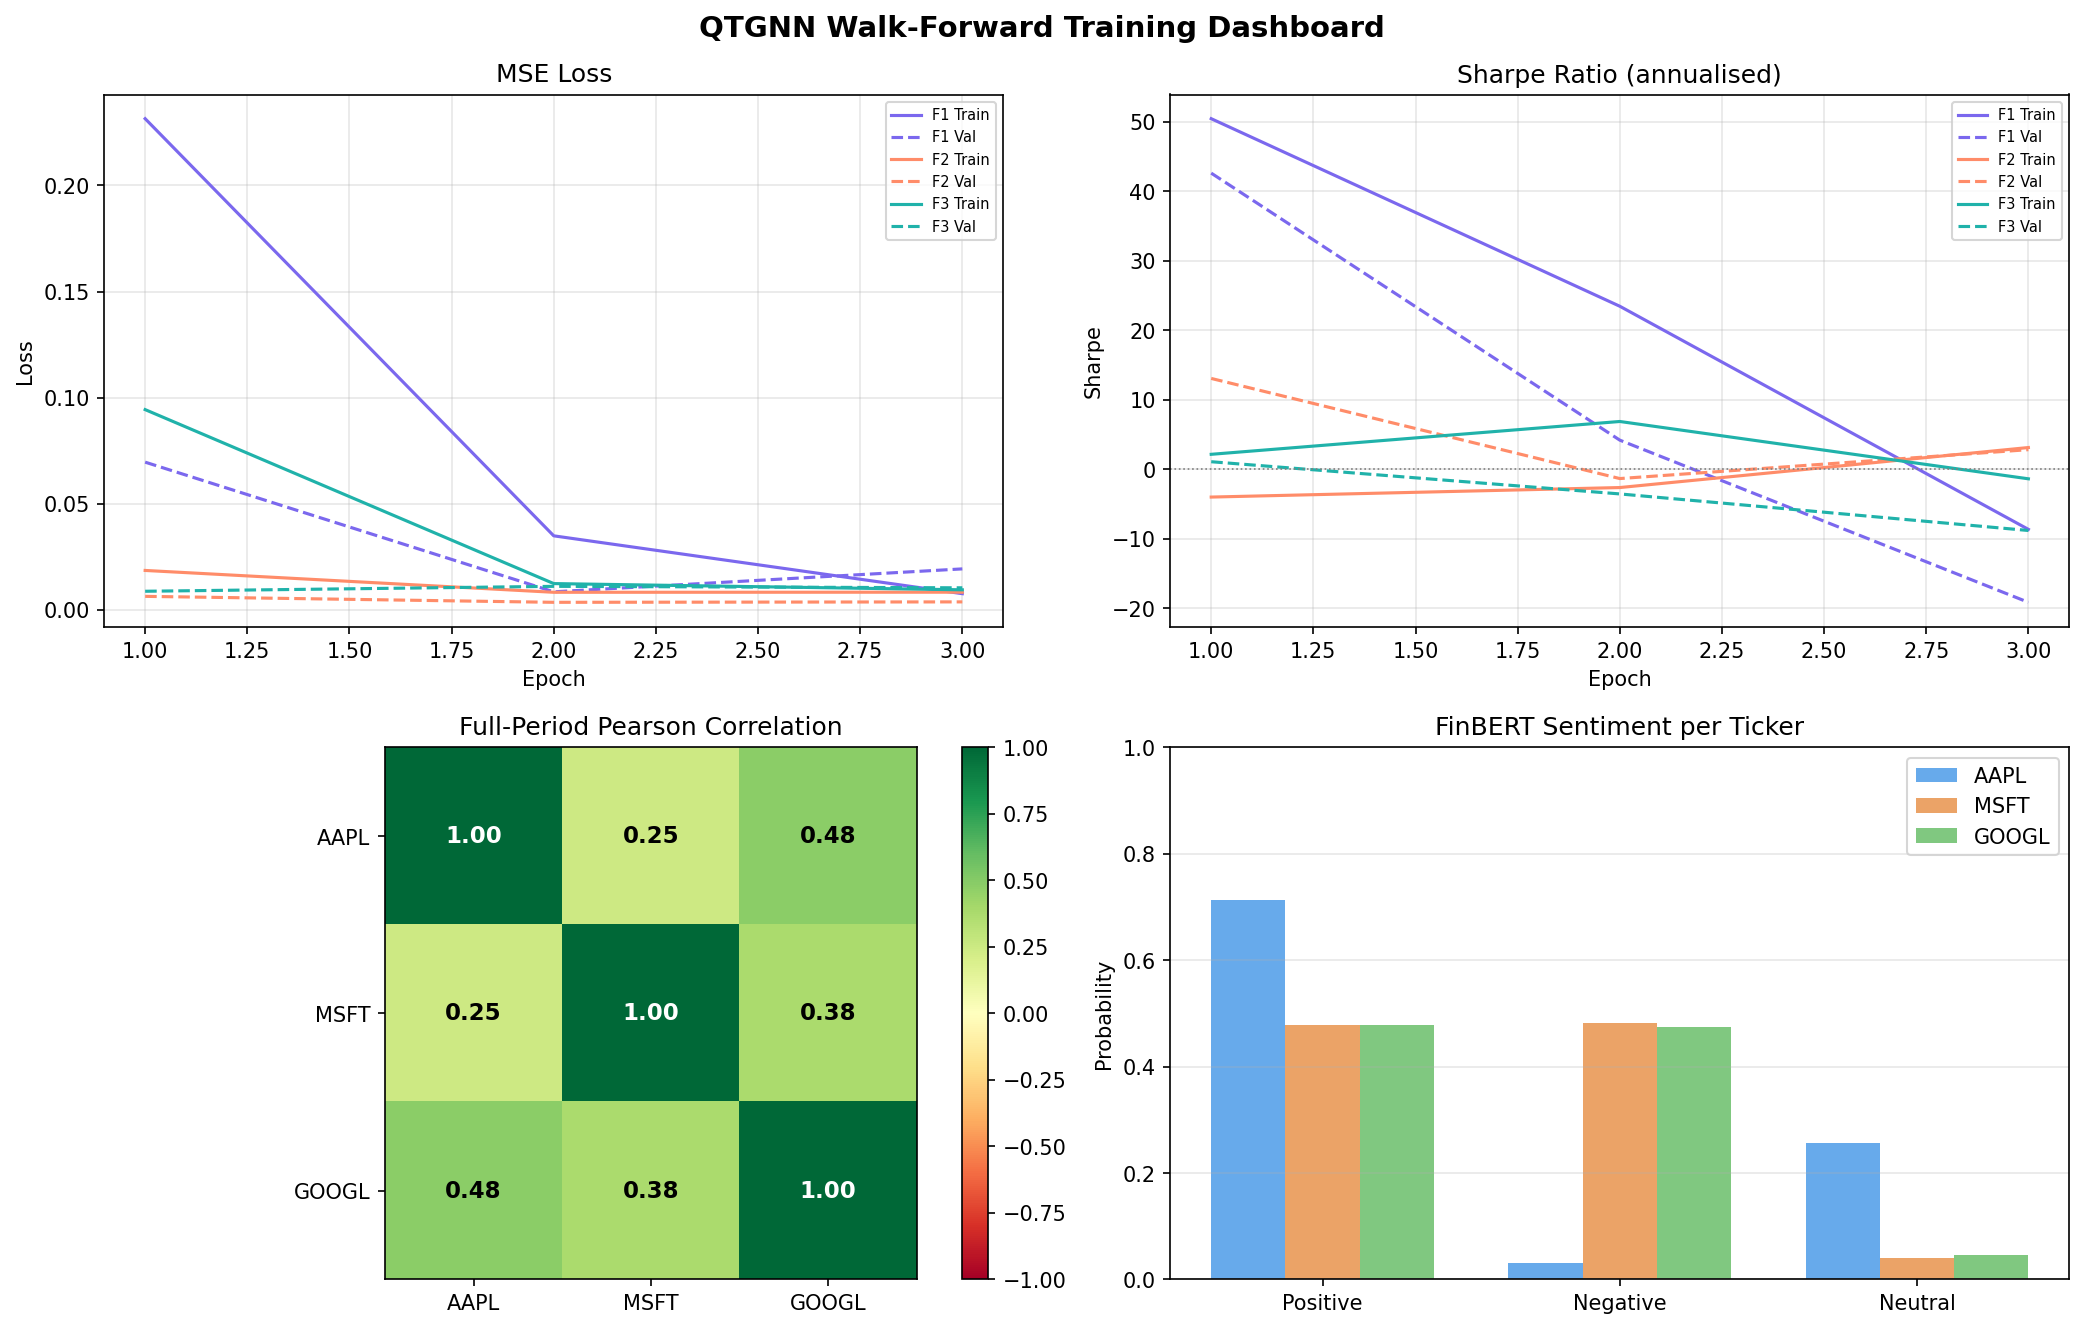
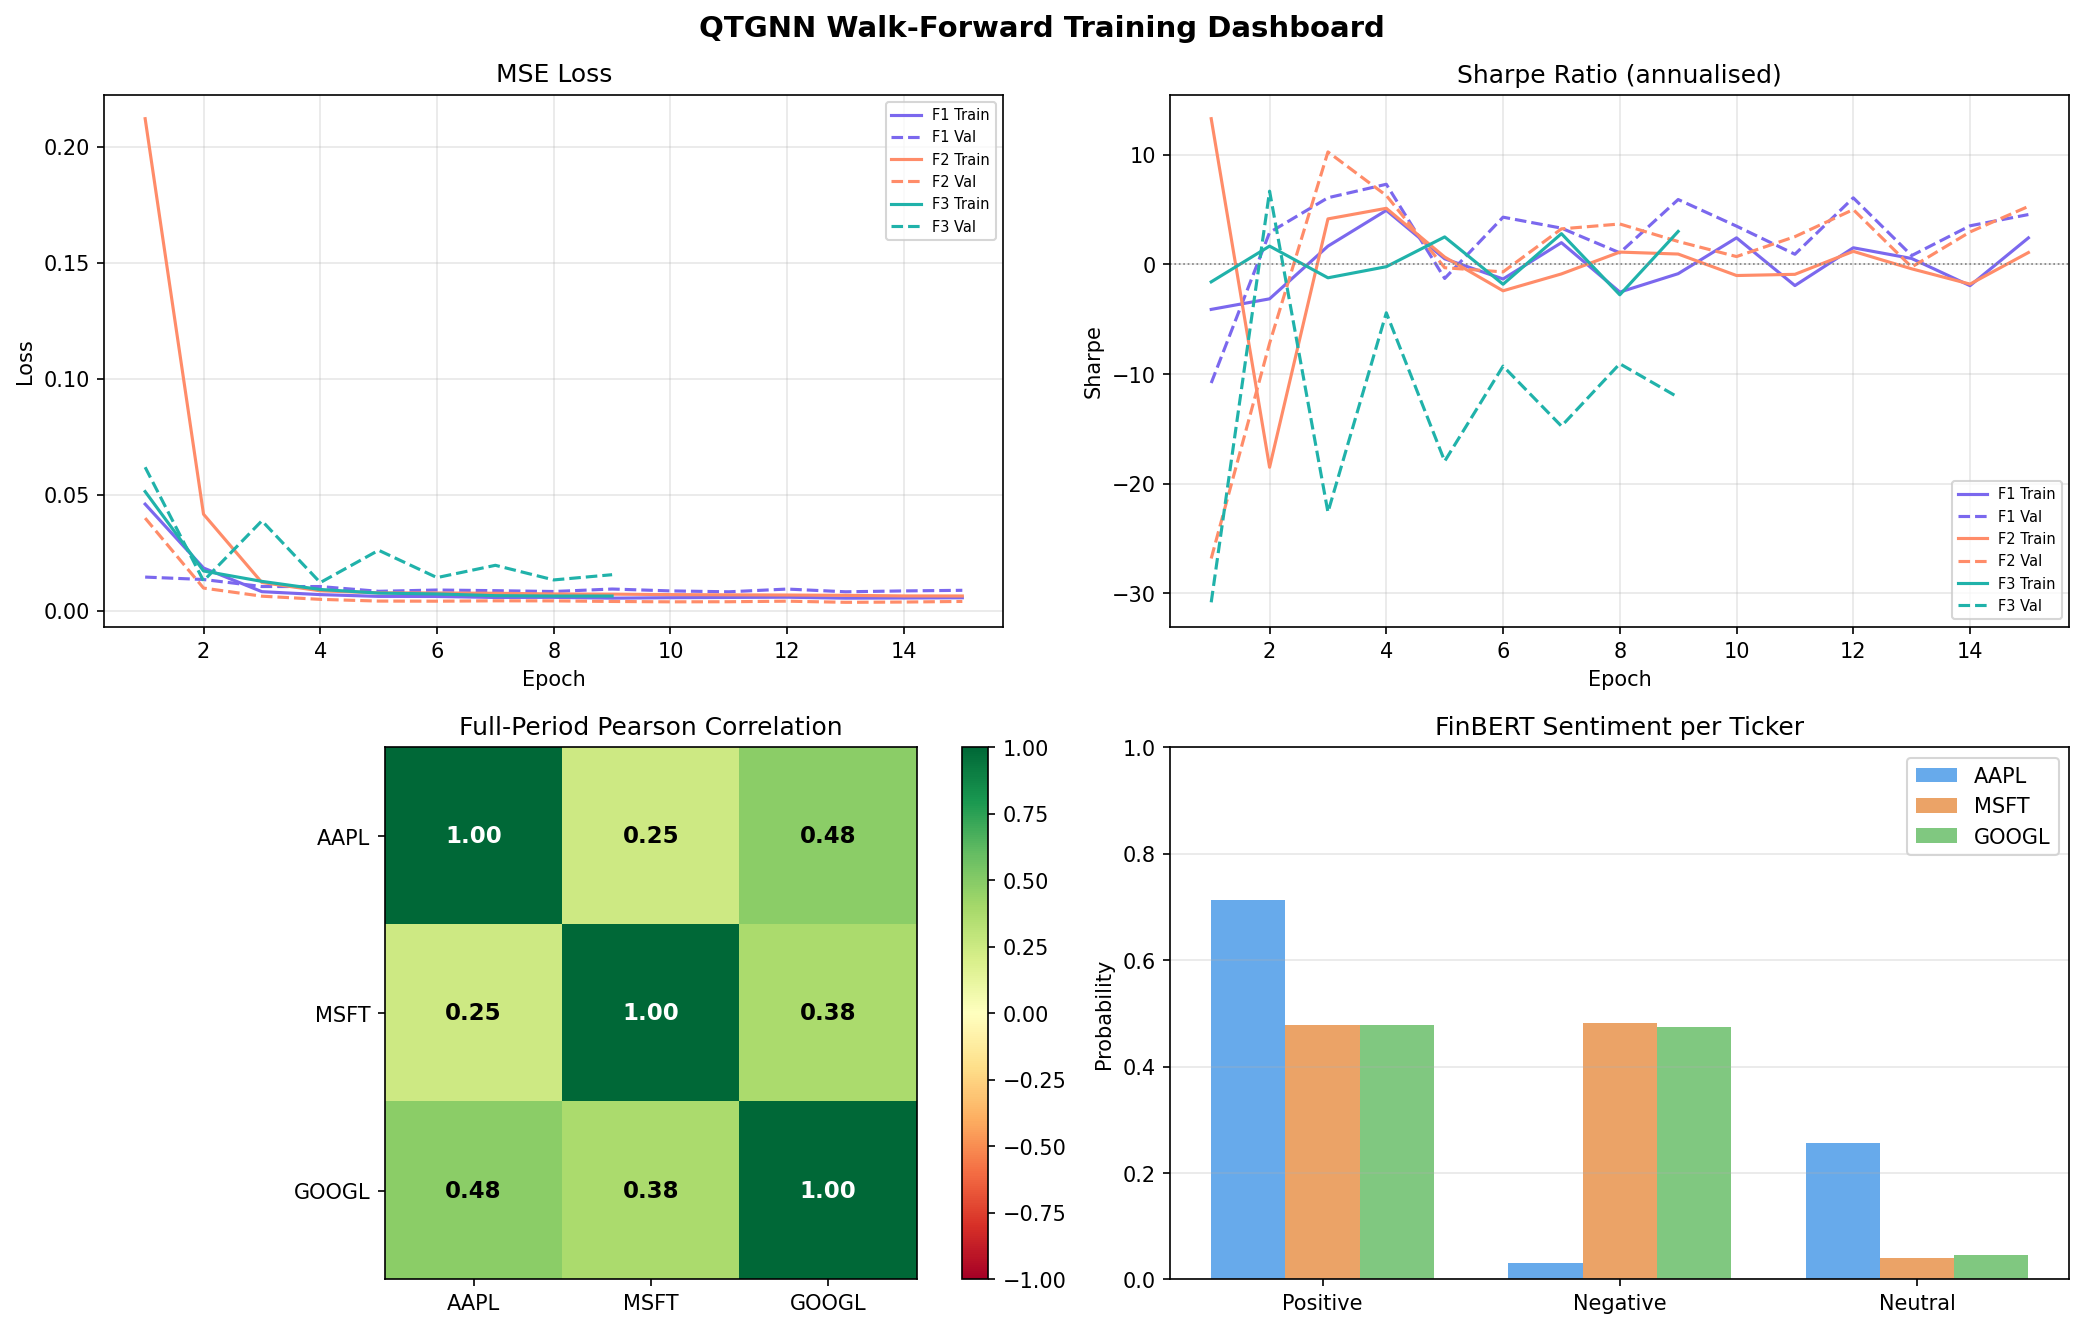
Increase epochs to 15 with early stopping (patience=5), fix plot x-axis for variable-length folds
- EPOCHS 3→15, PATIENCE=5 added for per-fold early stopping
- Best model weights restored at end of each fold
- Fixed plotting crash: EPOCHS_X replaced with per-fold actual epoch count
  so early-stopped folds render correctly on the training dashboard
- Updated plots from completed run

diff --git a/main.py b/main.py
@@ -40,7 +40,8 @@ N_REUP     : int       = 3     # data re-uploading repetitions
 GRU_HIDDEN : int       = 16
 CORR_WIN   : int       = 30    # rolling correlation window (days)
 BATCH_SIZE : int       = 8
-EPOCHS     : int       = 3
+EPOCHS     : int       = 15
+PATIENCE   : int       = 5      # early stopping patience (val loss)
 LR         : float     = 1e-2
 N_FOLDS    : int       = 3
 VAL_SIZE   : int       = 15
@@ -310,6 +311,10 @@ for fold_i, (tr_s, tr_e, va_s, va_e) in enumerate(splits):
     model, optimizer = make_model()
     hist: Dict[str, List[float]] = {k: [] for k in ("tr_loss", "va_loss", "tr_sharpe", "va_sharpe")}
 
+    best_val      = float("inf")
+    best_state    = None
+    no_improve    = 0
+
     for epoch in range(1, EPOCHS + 1):
         trl, trs = run_epoch(tr_ld, model, optimizer, train=True)
         val, vas = run_epoch(va_ld, model, None,      train=False)
@@ -317,6 +322,19 @@ for fold_i, (tr_s, tr_e, va_s, va_e) in enumerate(splits):
             hist[key].append(v)
         log.info("  Epoch %d/%d | TrLoss=%.5f VaLoss=%.5f | TrSharpe=%+.3f VaSharpe=%+.3f",
                  epoch, EPOCHS, trl, val, trs, vas)
+
+        if val < best_val:
+            best_val   = val
+            best_state = {k: v.clone() for k, v in model.state_dict().items()}
+            no_improve = 0
+        else:
+            no_improve += 1
+            if no_improve >= PATIENCE:
+                log.info("  Early stopping at epoch %d (patience=%d)", epoch, PATIENCE)
+                break
+
+    if best_state is not None:
+        model.load_state_dict(best_state)   # restore best weights for this fold
 
     all_history.append(hist)
     last_model = model
@@ -360,7 +378,6 @@ for i, ticker in enumerate(TICKERS):
 os.makedirs(PLOTS_DIR, exist_ok=True)
 STOCK_COLORS = ["#4C9BE8", "#E8934C", "#6ABF6A"]
 FOLD_COLORS  = ["#7B68EE", "#FF8C69", "#20B2AA"]
-EPOCHS_X     = list(range(1, EPOCHS + 1))
 
 # ── Figure 1: Walk-forward training dashboard ─────────────────────────────────
 fig1, axes = plt.subplots(2, 2, figsize=(14, 9))
@@ -368,15 +385,17 @@ fig1.suptitle("QTGNN Walk-Forward Training Dashboard", fontsize=14, fontweight="
 
 ax = axes[0, 0]
 for fi, hist in enumerate(all_history):
-    ax.plot(EPOCHS_X, hist["tr_loss"], color=FOLD_COLORS[fi], ls="-",  label=f"F{fi+1} Train")
-    ax.plot(EPOCHS_X, hist["va_loss"], color=FOLD_COLORS[fi], ls="--", label=f"F{fi+1} Val")
+    ex = list(range(1, len(hist["tr_loss"]) + 1))   # actual epochs run (early stop aware)
+    ax.plot(ex, hist["tr_loss"], color=FOLD_COLORS[fi], ls="-",  label=f"F{fi+1} Train")
+    ax.plot(ex, hist["va_loss"], color=FOLD_COLORS[fi], ls="--", label=f"F{fi+1} Val")
 ax.set_title("MSE Loss"); ax.set_xlabel("Epoch"); ax.set_ylabel("Loss")
 ax.legend(fontsize=7); ax.grid(alpha=0.3)
 
 ax = axes[0, 1]
 for fi, hist in enumerate(all_history):
-    ax.plot(EPOCHS_X, hist["tr_sharpe"], color=FOLD_COLORS[fi], ls="-",  label=f"F{fi+1} Train")
-    ax.plot(EPOCHS_X, hist["va_sharpe"], color=FOLD_COLORS[fi], ls="--", label=f"F{fi+1} Val")
+    ex = list(range(1, len(hist["tr_sharpe"]) + 1))
+    ax.plot(ex, hist["tr_sharpe"], color=FOLD_COLORS[fi], ls="-",  label=f"F{fi+1} Train")
+    ax.plot(ex, hist["va_sharpe"], color=FOLD_COLORS[fi], ls="--", label=f"F{fi+1} Val")
 ax.axhline(0, color="gray", lw=0.8, ls=":")
 ax.set_title("Sharpe Ratio (annualised)"); ax.set_xlabel("Epoch"); ax.set_ylabel("Sharpe")
 ax.legend(fontsize=7); ax.grid(alpha=0.3)
